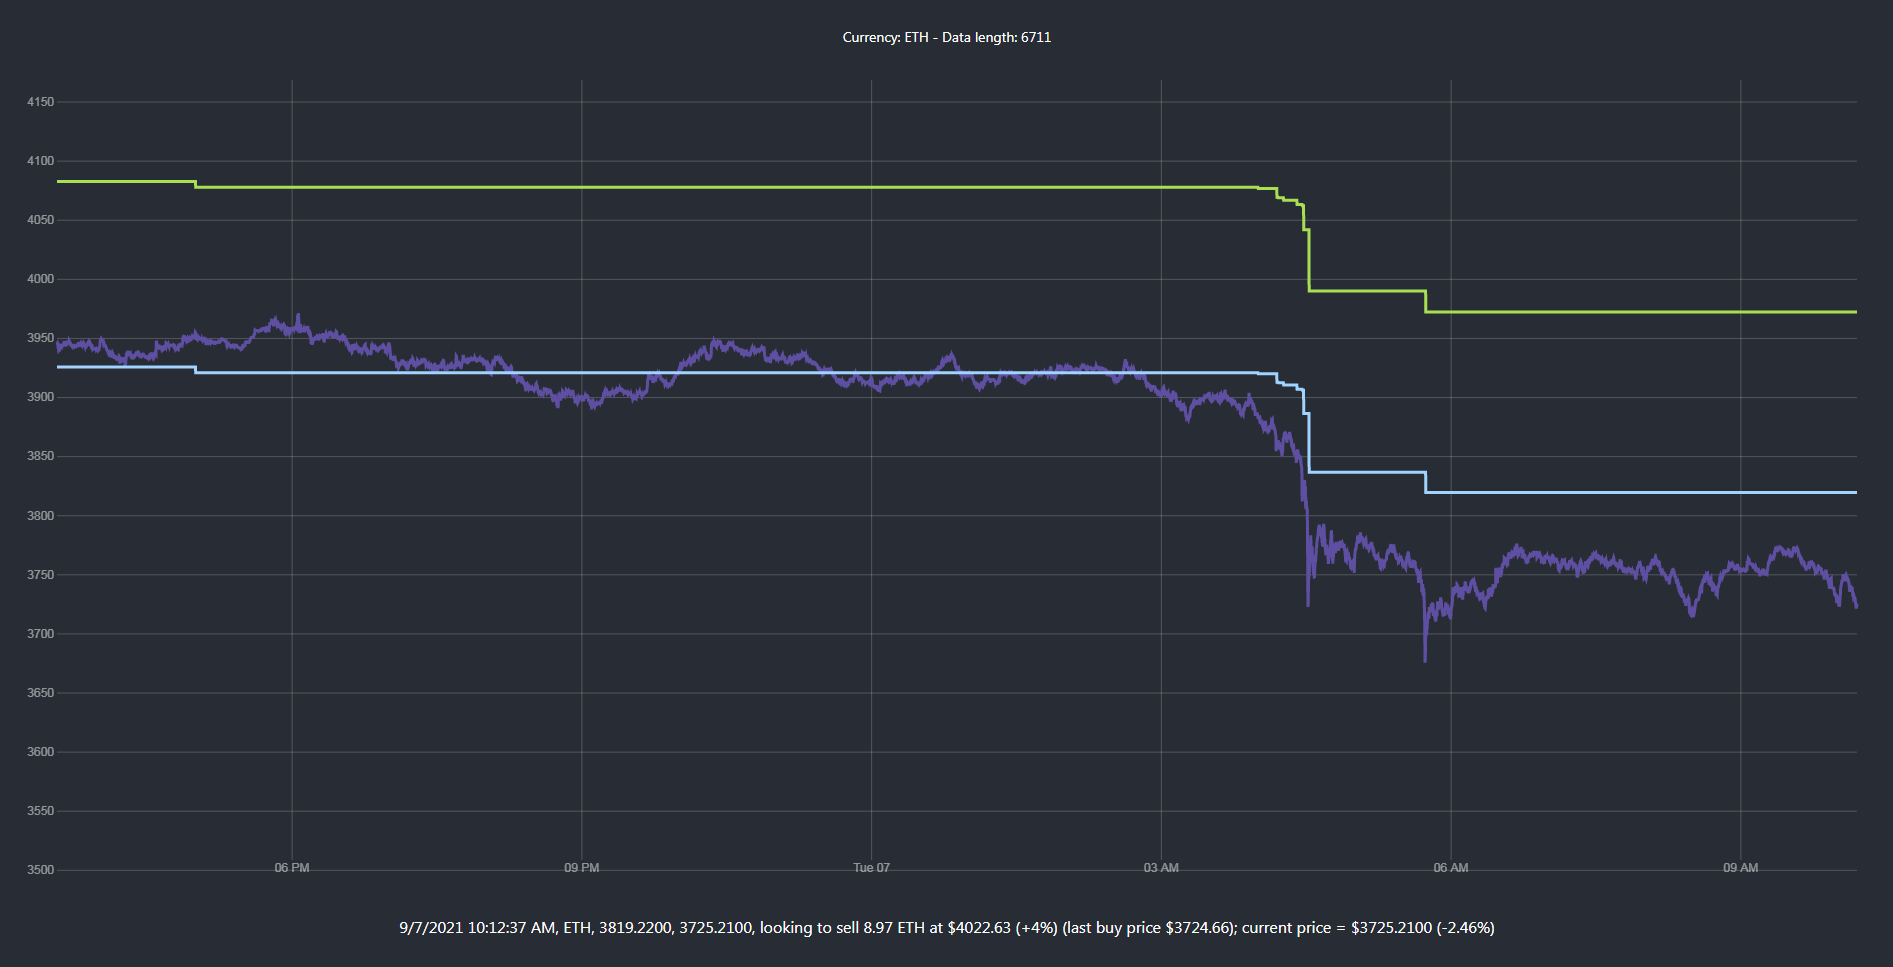
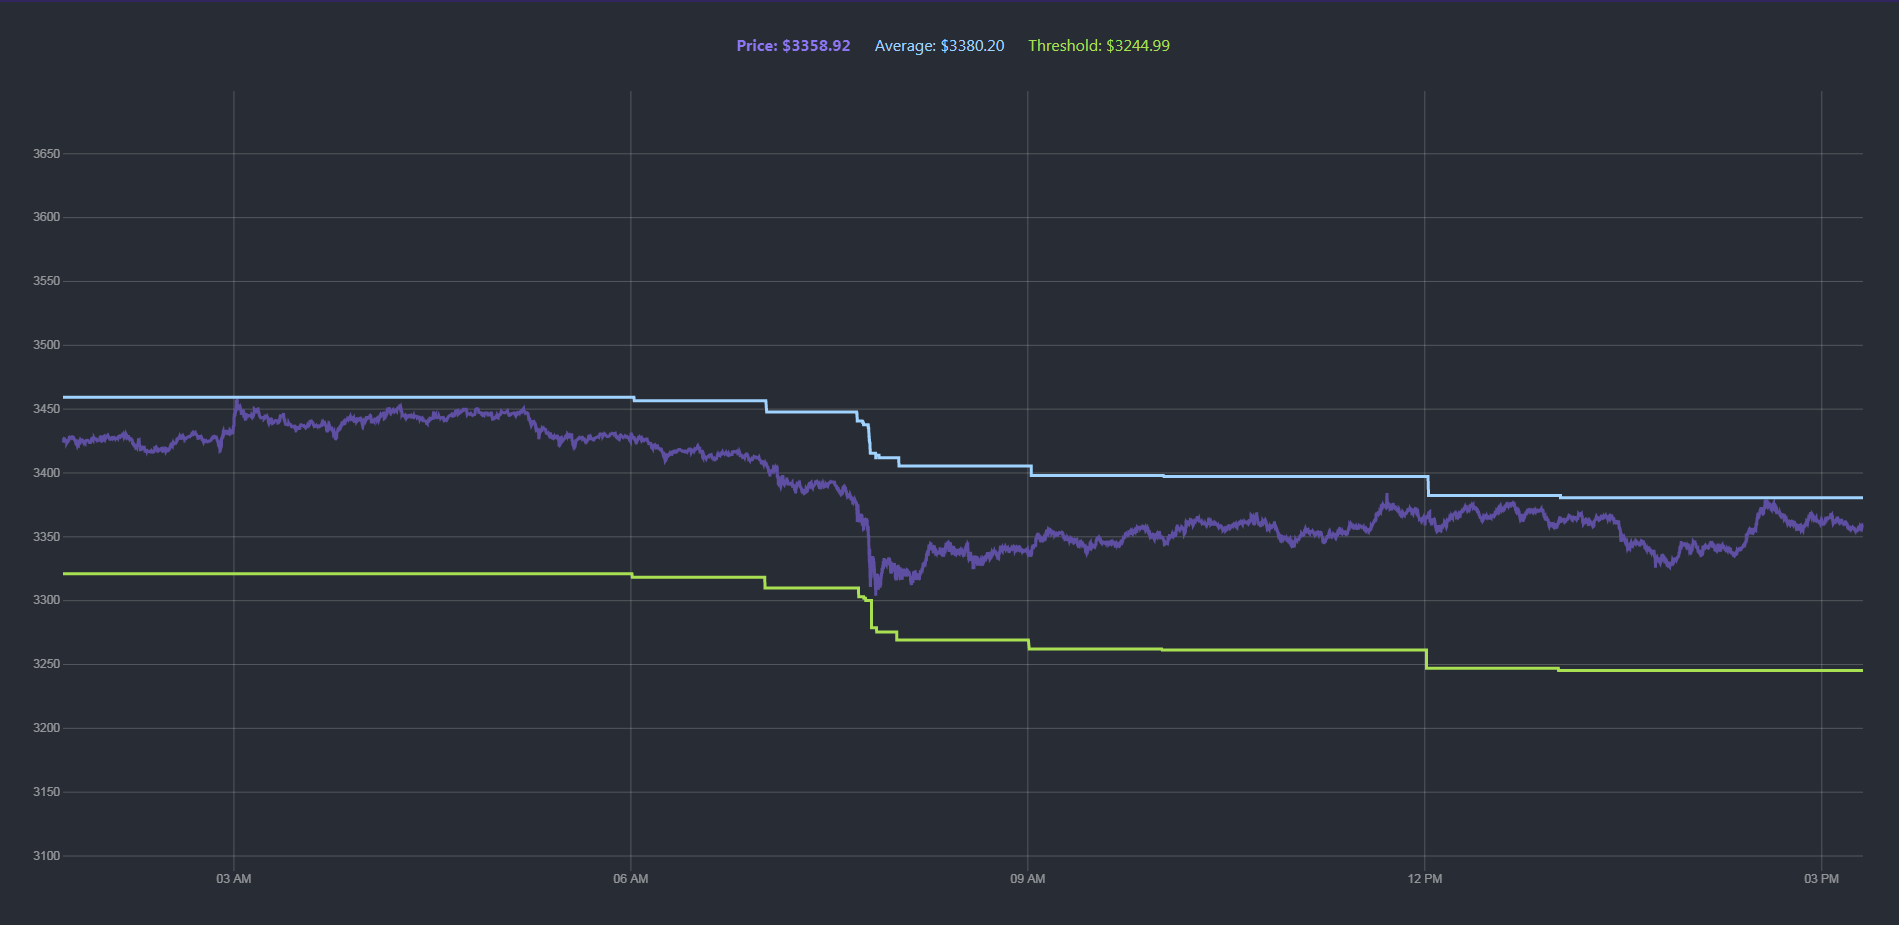
Update visualization image, data points

diff --git a/web/src/App.tsx b/web/src/App.tsx
@@ -8,9 +8,9 @@ import useWebSocket from "react-use-websocket";
 const priceColor = "#5E4FA2";
 const averageColor = "#A0D3FF";
 const thresholdColor = "#A8DF53";
-
+let updateCount = 0;
 function App() {
-    const maxDataPoints = 100000;
+    const maxDataPoints = 50000;
     const { lastMessage } = useWebSocket("ws://localhost:8080/ws", {
         onMessage: (messageEvent: WebSocketEventMap["message"]) => {
             handleMessage(messageEvent);
@@ -20,35 +20,38 @@ function App() {
     const [priceData, setPriceData] = useState([]);
     const [averageData, setAverageData] = useState([]);
     const [thresholdData, setThresholdData] = useState([]);
-
     const handleMessage = (message) => {
         let count = messageCount;
         setMessageCount(count + 1);
-        const timestamp = new Date();
-        const { price, low_24h, high_24h } = JSON.parse(message.data);
-        const average =
-            (parseFloat(high_24h) - parseFloat(low_24h)) / 2 +
-            parseFloat(low_24h);
+        updateCount++;
+        if (updateCount >= 10) {
+            updateCount = 0;
+            const timestamp = new Date();
+            const { price, low_24h, high_24h } = JSON.parse(message.data);
+            const average =
+                (parseFloat(high_24h) - parseFloat(low_24h)) / 2 +
+                parseFloat(low_24h);
 
-        const threshold =
-            state.action === Actions.Buy
-                ? state.buyThreshold
-                : state.sellThreshold;
+            const threshold =
+                state.action === Actions.Buy
+                    ? state.buyThreshold
+                    : state.sellThreshold;
 
-        let data = priceData;
-        (data as any).push({ value: parseFloat(price), date: timestamp });
-        if (data.length >= maxDataPoints) data.shift();
-        setPriceData(data);
+            let data = priceData;
+            (data as any).push({ value: parseFloat(price), date: timestamp });
+            if (data.length >= maxDataPoints) data.shift();
+            setPriceData(data);
 
-        data = averageData;
-        (data as any).push({ value: average, date: timestamp });
-        if (data.length >= maxDataPoints) data.shift();
-        setAverageData(data);
+            data = averageData;
+            (data as any).push({ value: average, date: timestamp });
+            if (data.length >= maxDataPoints) data.shift();
+            setAverageData(data);
 
-        data = thresholdData;
-        (data as any).push({ value: threshold, date: timestamp });
-        if (data.length >= maxDataPoints) data.shift();
-        setThresholdData(data);
+            data = thresholdData;
+            (data as any).push({ value: threshold, date: timestamp });
+            if (data.length >= maxDataPoints) data.shift();
+            setThresholdData(data);
+        }
     };
     const formatNumber = (number: number): string => {
         return (Math.round(number * 100) / 100).toFixed(2);
